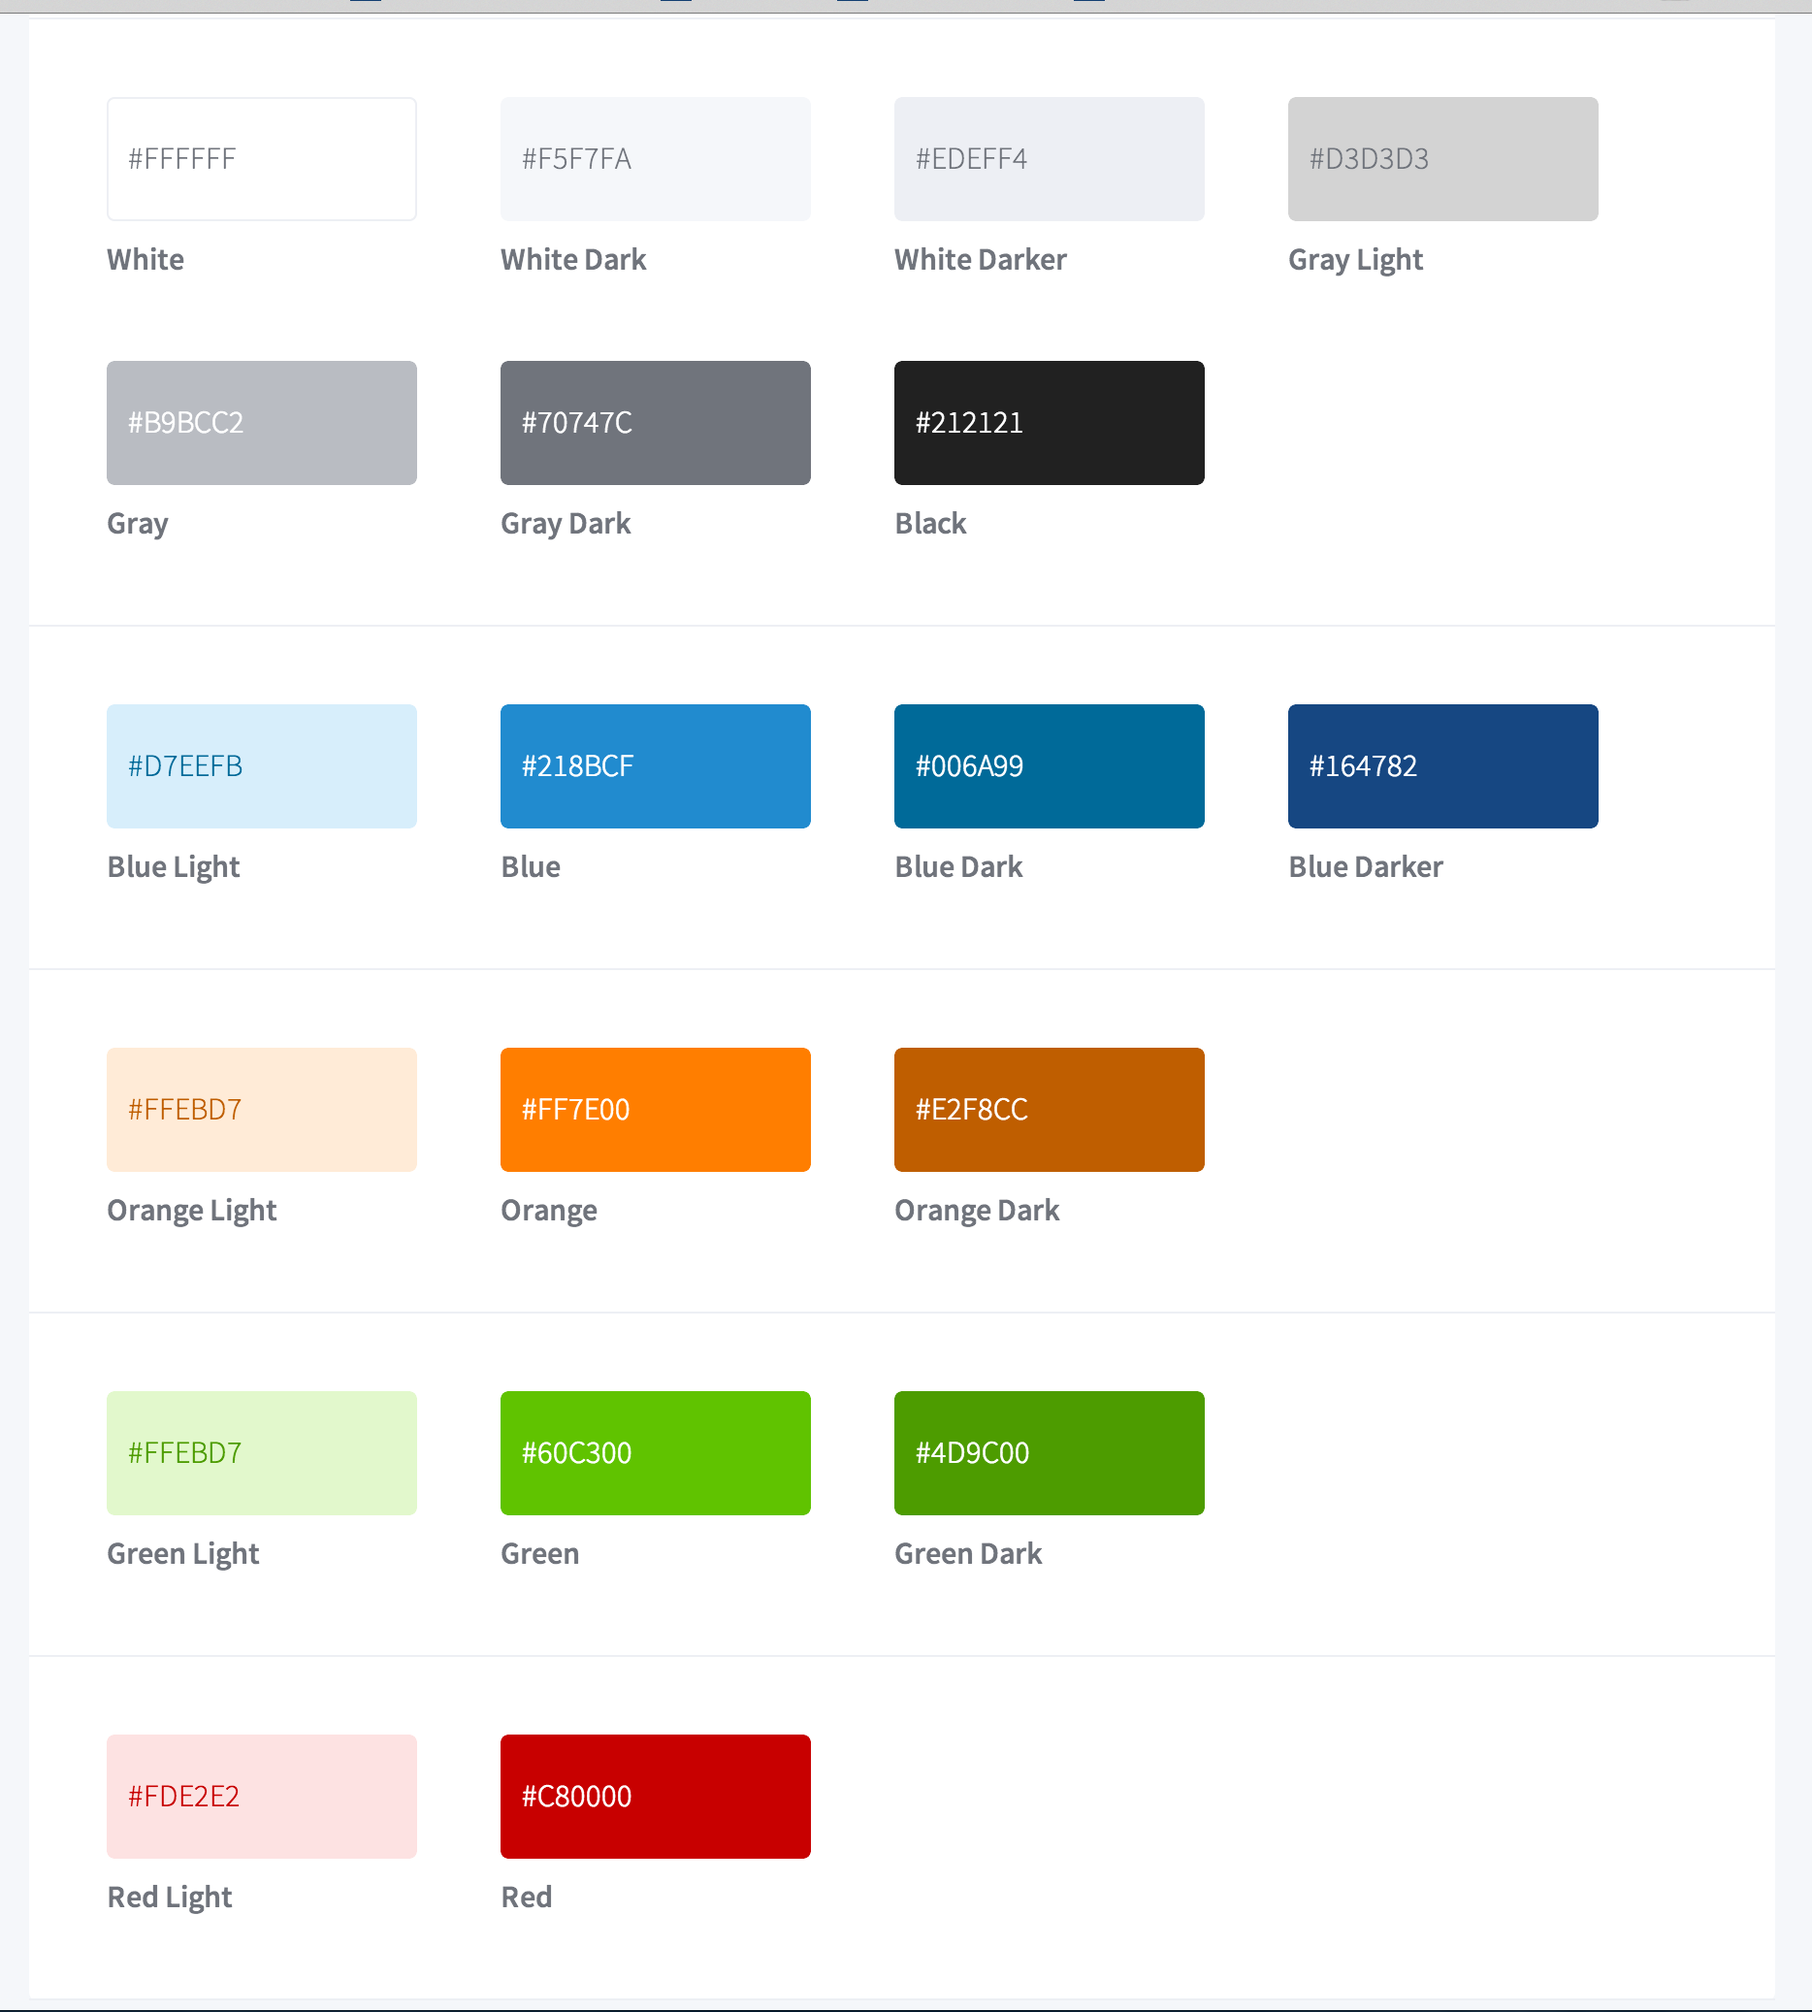
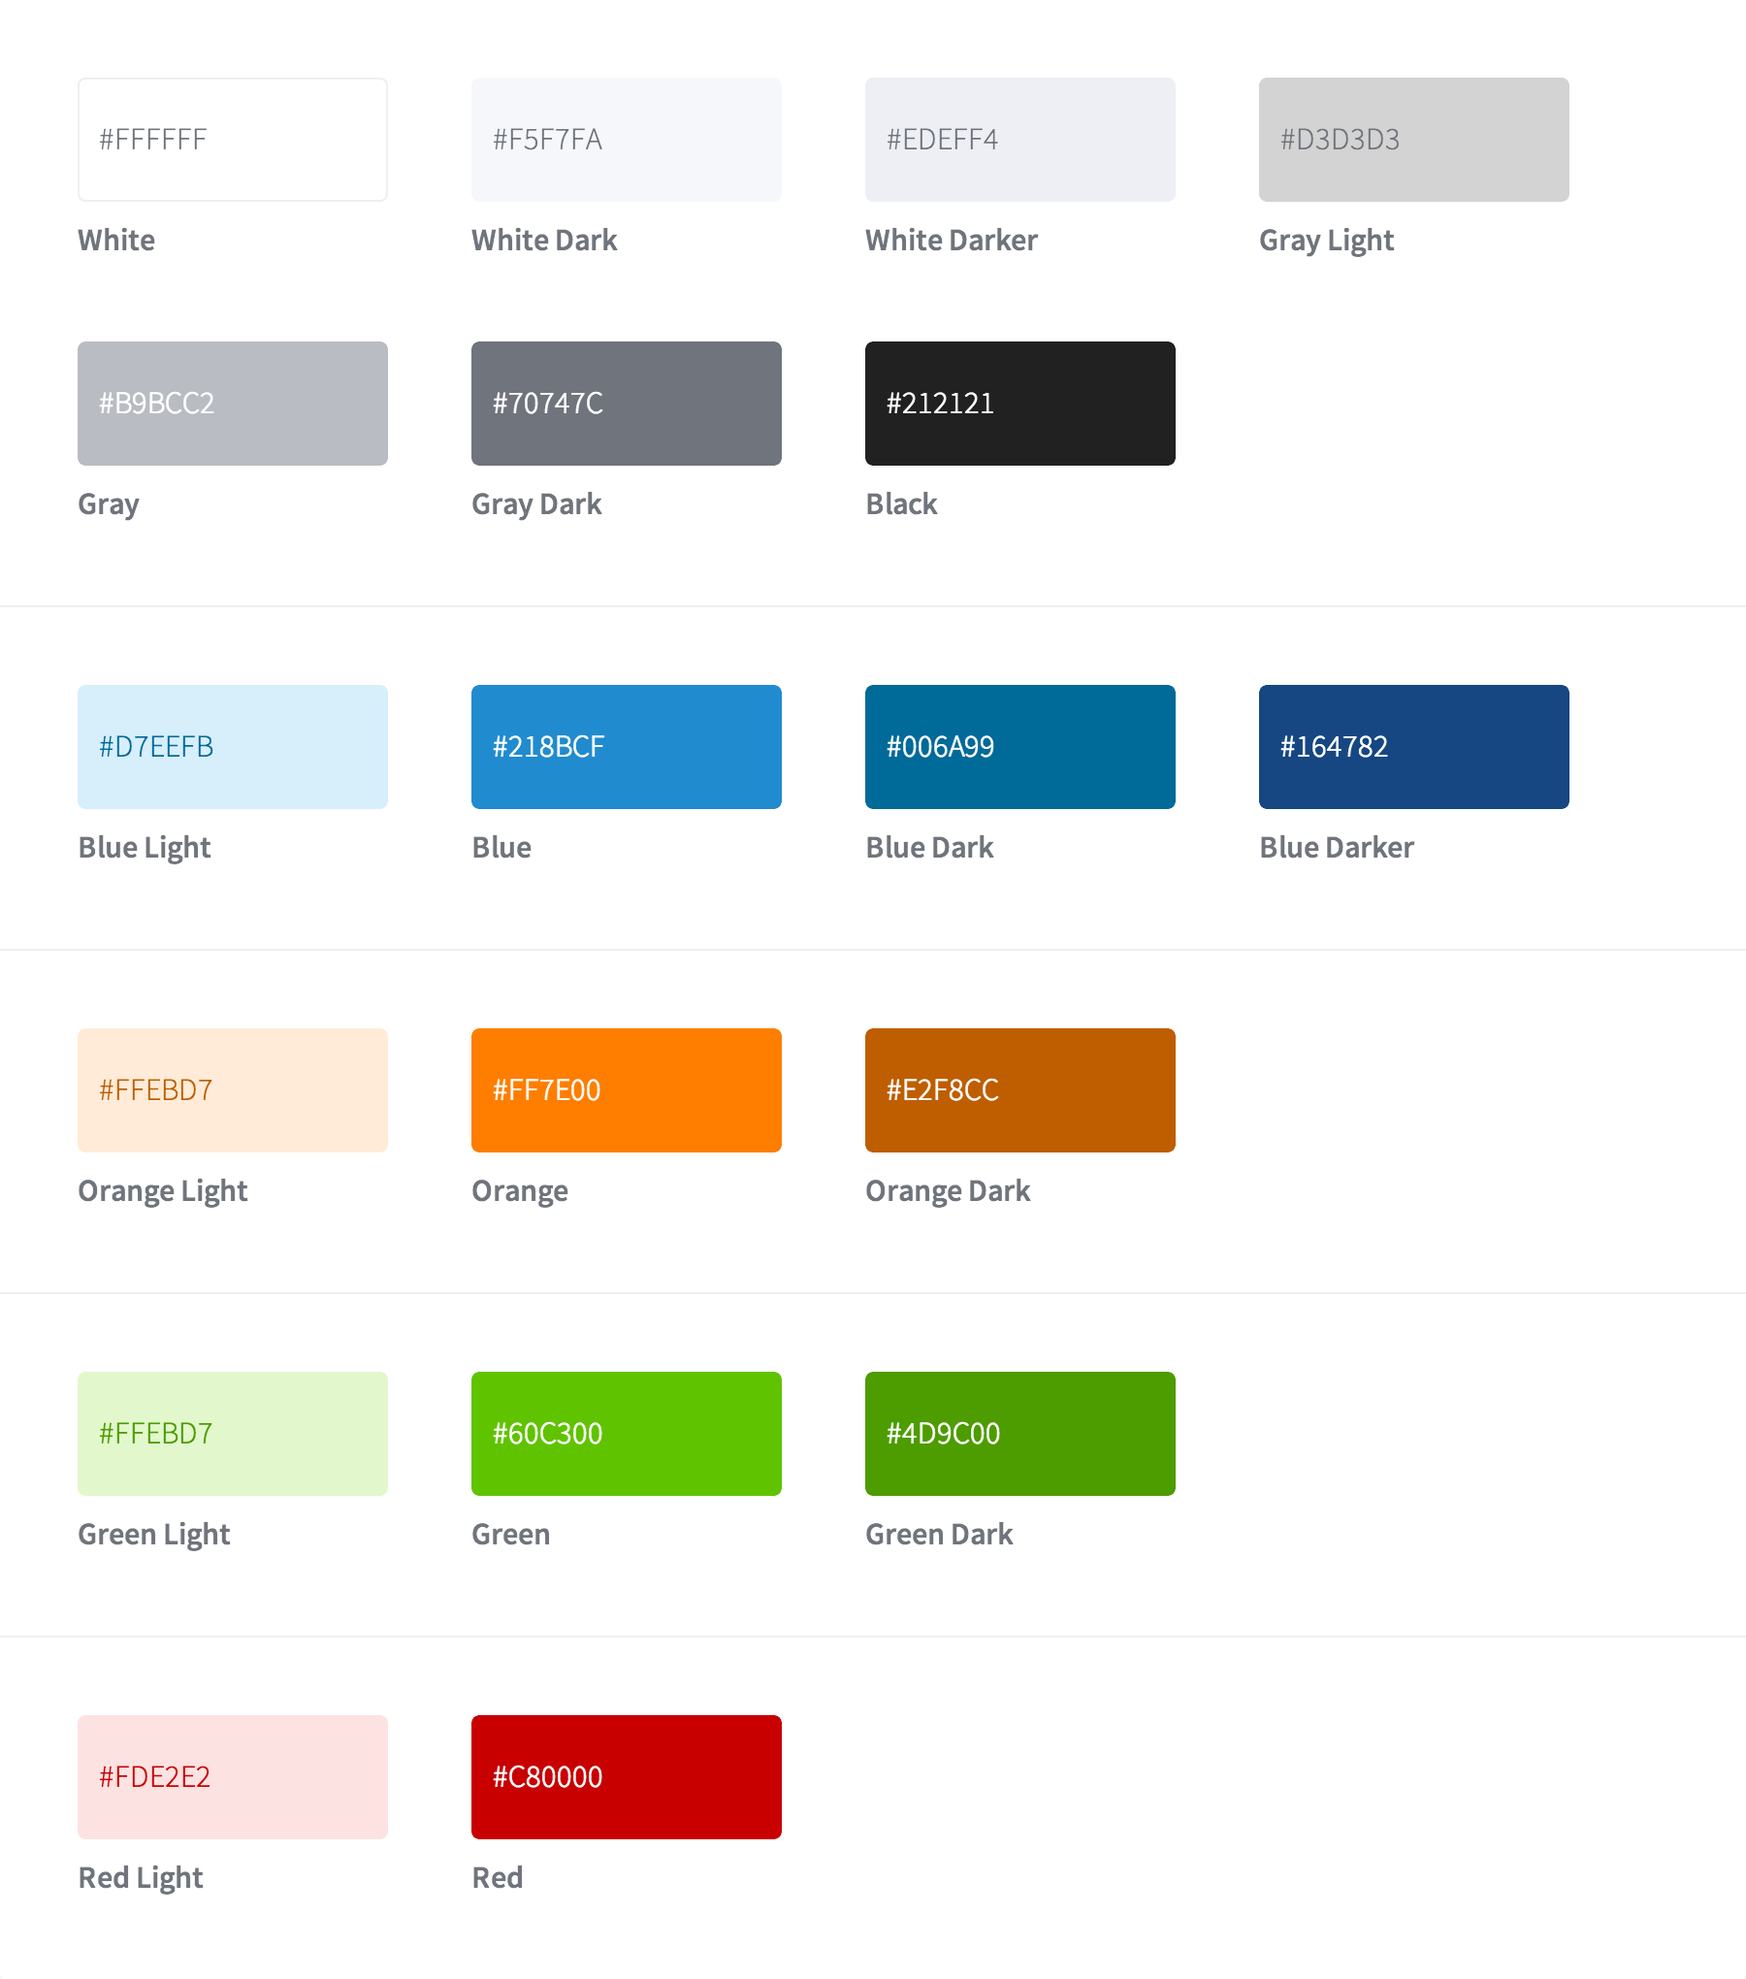
Readme + colors

diff --git a/README.md b/README.md
@@ -1,4 +1,33 @@
-wimdu-resources
-===============
+Wimdu Resources
+=======
 
 Wimdu logos, icons, and press related assets - http://wimdu.com
+
+## Typography:
+
+Wimdu uses the `Source Sans Pro` typeface, which can be downloaded for free here:
+http://www.google.com/fonts/specimen/Source+Sans+Pro
+
+(Source files are available here: https://github.com/adobe/source-sans-pro)
+
+## Colors
+
+![Wimdu Colors](colors/colors.png)
+
+## Icon
+
+![Wimdu Icon](icon/png/wimdu-icon-64x64.png)
+
+Available formats:
+
+* **Vector**: svg, eps, pdf
+* **Raster**: png
+
+## Icon + Text
+
+![Wimdu Icon](icon%20+%20text/png/wimdu-icon-text-64.png)
+
+Available formats:
+
+* **Vector**: svg, eps, pdf
+* **Raster**: png
